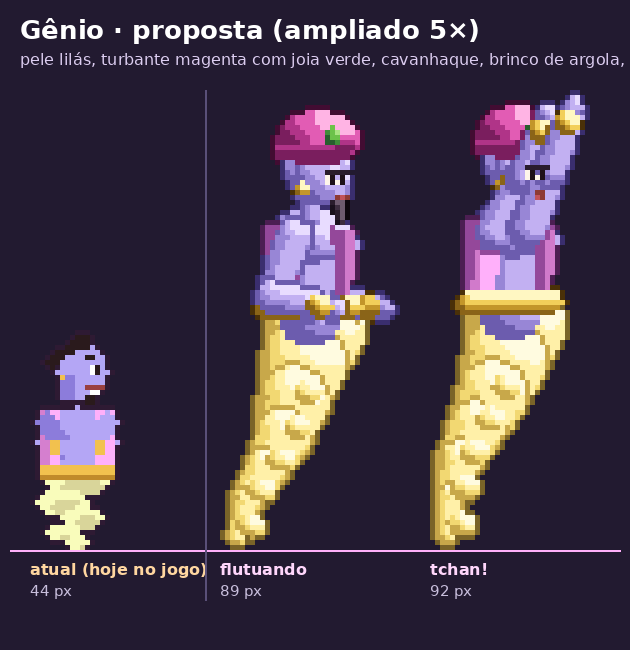
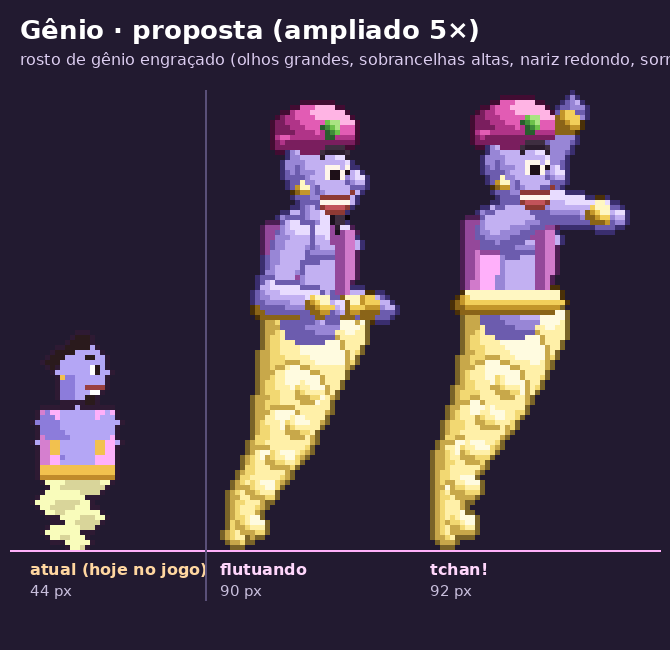
Prévia do Gênio: rosto expressivo de gênio engraçado
Olhos grandes com brilho, sobrancelhas grossas e altas, nariz redondo saindo
do perfil, sorriso enorme com dentes; turbante mais alto (testa à mostra) e
braço do tchan! longe do rosto. Sem os traços do Gênio da Disney (regra 3).

Claude-Session: https://claude.ai/code/session_01PQYRHCjcJDFveiPkYtVM8o

Changed region(s): [[0.0302, 0.0308, 0.7841, 0.9231], [0.6333, 0.0615, 1.0, 0.9231]]

diff --git a/ferramentas/arte/elenco_proposta.py b/ferramentas/arte/elenco_proposta.py
@@ -765,18 +765,56 @@ class Genio(Humano):
         cx, cy = c['cab']
         k = 1.5
         b.elipse((cx + 0.8, cy + 0.6), 4.4 * k, 4.9 * k, self.PELE, separar=False, achatar=0.65)
-        b.elipse((cx + 2.8, cy + 3.6), 3.0 * k, 2.6 * k, self.PELE, separar=False, achatar=0.6)
+        b.elipse((cx + 3.2, cy + 4.6), 3.6 * k, 3.0 * k, self.PELE, separar=False, achatar=0.6)
         b.elipse((cx - 2.4, cy + 1.2), 1.5, 2.1, self.PELE, 1, separar=False, achatar=0.8)
-        b.elipse((cx + 0.6, cy - 5.6), 8.4, 5.6, self.TURB, separar=False)             # turbante
-        b.capsula((cx - 7, cy - 3.2), (cx + 7.4, cy - 4.4), 1.4, 1.4, self.TURB, 1, separar=False)
-        b.elipse((cx + 3.4, cy - 6.0), 1.8, 2.0, self.JOIA, separar=False)
+        b.elipse((cx + 0.2, cy - 7.4), 8.2, 5.0, self.TURB, separar=False)             # turbante (testa à mostra)
+        b.capsula((cx - 7, cy - 5.0), (cx + 6.8, cy - 6.0), 1.4, 1.4, self.TURB, 1, separar=False)
+        b.elipse((cx + 3.2, cy - 7.6), 1.8, 2.0, self.JOIA, separar=False)
         b.elipse((cx - 2.8, cy + 4.4), 1.4, 1.4, self.FAIXA, separar=False)            # brinco de argola
-        b.capsula((cx + 4.0, cy + 7.6), (cx + 5.0, cy + 11), 1.6, 0.6, self.BARBA, separar=False)   # cavanhaque
+        b.capsula((cx + 4.0, cy + 9.6), (cx + 4.8, cy + 13), 1.6, 0.6, self.BARBA, separar=False)   # cavanhaque
 
     def rosto(self, b, c):
+        """Rosto de "gênio engraçado" (tipo comum do gênero), desenhado por nós: olhos grandes com brilho,
+        sobrancelhas grossas e altas, nariz redondo, sorriso enorme com dentes. Nada do rosto do Gênio da Disney
+        (queixo com covinha, rabo de cavalo no topo, pele azul)."""
         cx, cy = c['cab']
-        # escala do rosto maior: reposiciona e reaproveita
-        super().rosto(b, c | {'cab': (cx + 1.2, cy + 1.4)})
+        tipo = self.p['rosto']
+        br = self.BARBA.chars
+        # olho de perto (3 de altura, branco + pupila 2x2 + brilho) e olho de longe
+        ox, oy = cx + 1.8, cy - 0.4
+        for dy in range(3):
+            b.px(ox, oy + dy, 'w'); b.px(ox + 1, oy + dy, 'w'); b.px(ox + 2, oy + dy, 'e' if dy else 'w')
+        b.px(ox + 1, oy + 1, 'e'); b.px(ox + 1, oy + 2, 'e'); b.px(ox + 2, oy + 2, 'e')
+        b.px(ox + 2, oy, 'w')                                   # brilho
+        fx = cx + 5.6
+        for dy in range(3):
+            b.px(fx, oy + dy, 'e' if dy else 'w')
+        b.px(fx - 1, oy + 1, 'w'); b.px(fx - 1, oy + 2, 'w')
+        # sobrancelhas grossas, altas e arqueadas (2 px de espessura)
+        sobe = 1.0 if tipo in ('fala', 'feliz') else 0.0
+        for x, y in ((cx + 0.6, cy - 2.2), (cx + 1.6, cy - 3.0), (cx + 2.6, cy - 3.4), (cx + 3.6, cy - 3.0)):
+            b.px(x, y - sobe, br[1]); b.px(x, y + 1 - sobe, br[2])
+        for x, y in ((cx + 5.2, cy - 3.2), (cx + 6.2, cy - 2.8)):
+            b.px(x, y - sobe, br[1]); b.px(x, y + 1 - sobe, br[2])
+        # nariz redondo e grande
+        b.elipse((cx + 8.0, cy + 2.6), 2.2, 2.0, self.PELE, separar=False)   # nariz saindo do perfil
+        b.tom_em(cx + 7.8, cy + 1.8, self.PELE, 0)
+        b.tom_em(cx + 7.4, cy + 4.0, self.PELE, 3)
+        # sorriso enorme: boca aberta com dentes em cima e língua
+        if tipo in ('feliz', 'fala'):
+            for x in range(int(cx + 1), int(cx + 7)):
+                b.px(x, cy + 5.4, 'q')                          # lábio de cima
+                b.px(x, cy + 6.4, 'w')                          # dentes
+                b.px(x, cy + 7.4, 'q' if x in (int(cx + 1), int(cx + 6)) else 'n')
+            for x in range(int(cx + 2), int(cx + 6)):
+                b.px(x, cy + 8.4, 'q')                          # lábio de baixo
+            b.px(cx + 0.4, cy + 4.6, 'q'); b.px(cx + 7.2, cy + 4.6, 'q')   # cantos subindo
+        else:
+            for x in range(int(cx + 1), int(cx + 7)):
+                b.px(x, cy + 5.6 + (0.6 if x in (int(cx + 1), int(cx + 6)) else 0) * -1, 'q')
+        # vincos do sorriso nas bochechas
+        b.tom_em(cx + 0.2, cy + 3.8, self.PELE, 3)
+        b.tom_em(cx - 0.2, cy + 4.8, self.PELE, 3)
 
 
 # ===============================================================================================================
@@ -923,9 +961,9 @@ def poses():
            'magenta, medalhão de lua, varinha de estrela, cauda de fumaça'),
         'genio': ('Gênio', [
             ('flutuando', ge.img(pose(ombro_f=-20, cotovelo_f=100, ombro_t=-10, cotovelo_t=90, rosto='feliz'))),
-            ('tchan!', ge.img(pose(ombro_f=150, cotovelo_f=10, ombro_t=160, cotovelo_t=0, braco_t_atras=False,
+            ('tchan!', ge.img(pose(ombro_f=115, cotovelo_f=-35, ombro_t=165, cotovelo_t=-10, braco_t_atras=True,
                                    rosto='fala', fase=1.6))),
-        ], 'pele lilás, turbante magenta com joia verde, cavanhaque, brinco de argola, colete rosa aberto, faixa '
+        ], 'rosto de gênio engraçado (olhos grandes, sobrancelhas altas, nariz redondo, sorriso enorme); pele lilás, turbante magenta com joia verde, cavanhaque, brinco de argola, colete rosa aberto, faixa '
            'e braceletes dourados, cauda de fumaça amarela'),
         'abu': ('Abu', [('parado', ab.img('parado')), ('correndo', ab.img('correndo')), ('aflito', ab.img('aflito'))],
                 'macaco-prego (o macaquinho brasileiro), chapeuzinho azul (boina com bolinha), rosto e barriga claros, '

diff --git a/ferramentas/arte/previas/personagens/PROPOSTA.md b/ferramentas/arte/previas/personagens/PROPOSTA.md
@@ -77,3 +77,9 @@ Mudanças de design em relação ao jogo de hoje (todas provisórias até as fot
 Se aprovar, a 8A troca os sprites no jogo com as animações completas da tabela acima.
 
 **Pele (informação do Pedro, 01/11/2026):** Tia Paula, Tia Claudia e o Sultão têm **pele branca**.
+
+**Rosto do Gênio (pergunta do Pedro, 01/11/2026: "dá para manter o rosto semelhante ao da Disney?"):** o rosto é o
+que mais identifica o Gênio do filme (queixão com covinha, sorriso e sobrancelhas daquele desenho, pele azul, rabo de
+cavalo no topo); copiar passa da regra 3. Ficou o **tipo** "gênio engraçado", comum no gênero e desenhado por nós:
+olhos grandes com brilho, sobrancelhas grossas e altas, nariz redondo saindo do perfil, sorriso enorme com dentes,
+cavanhaque, pele lilás, turbante magenta e brinco.
